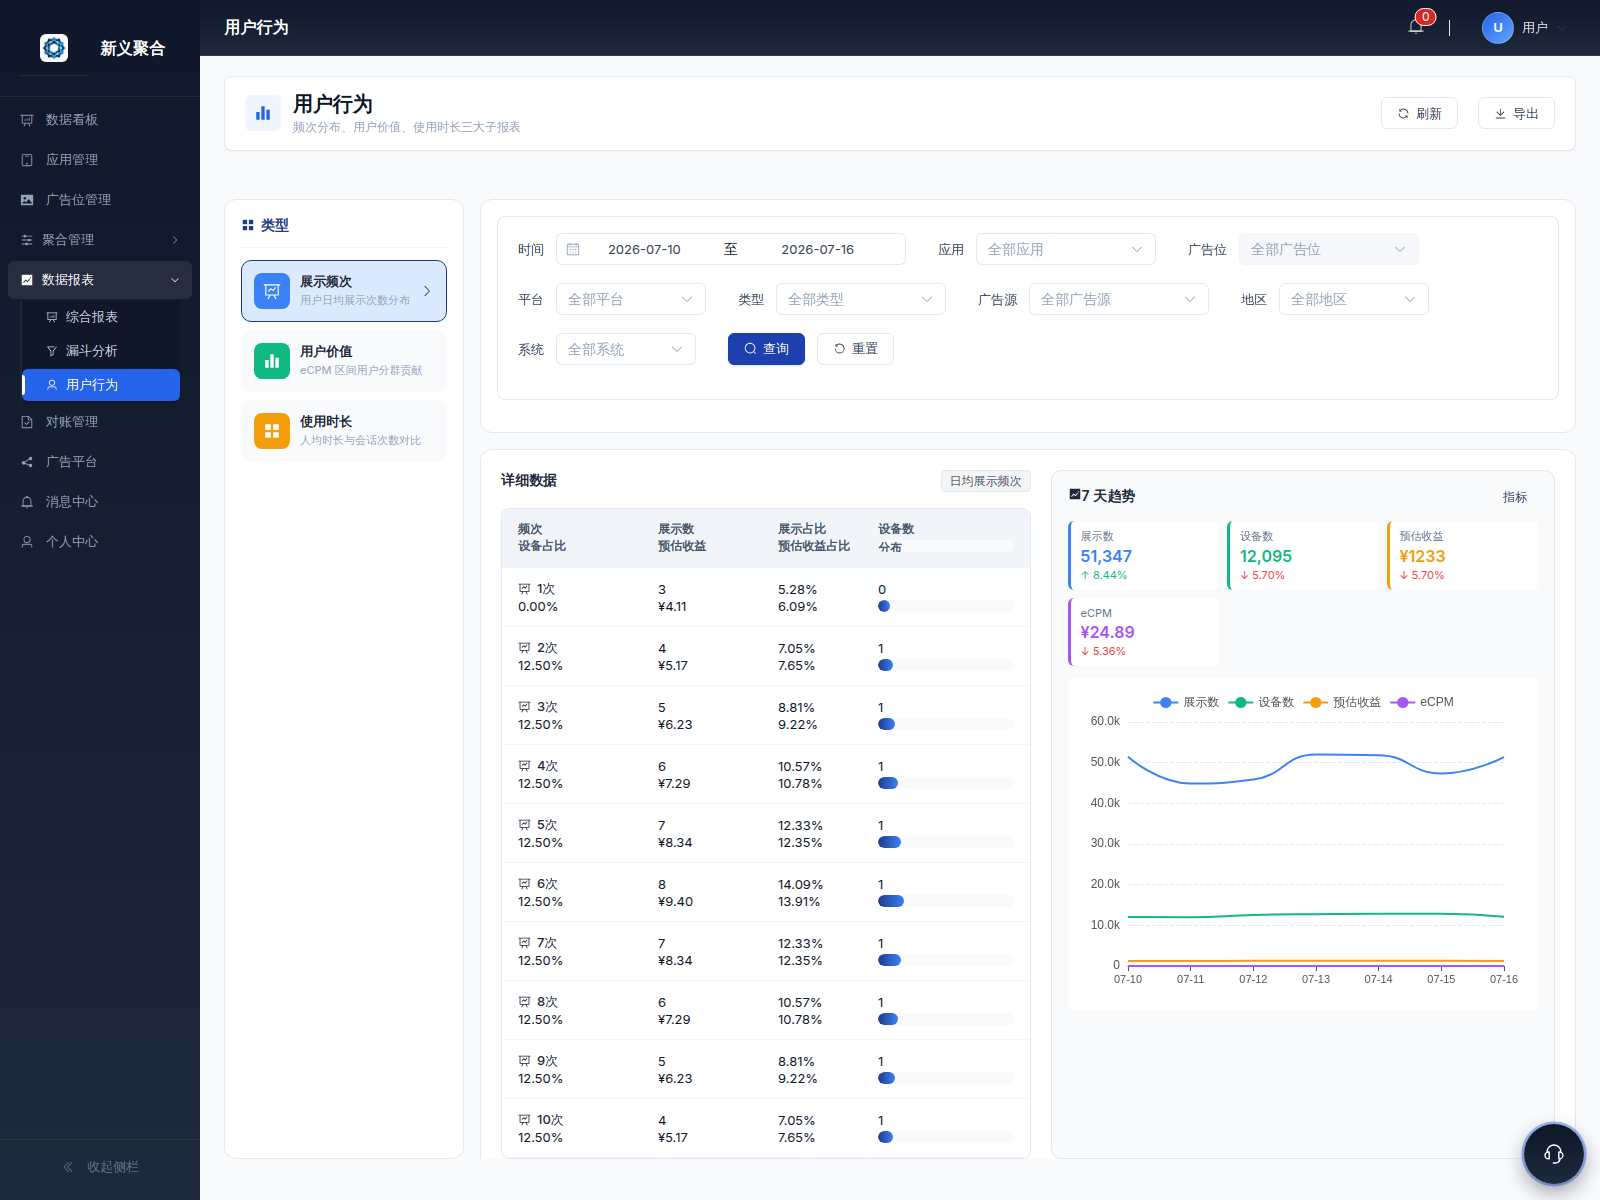
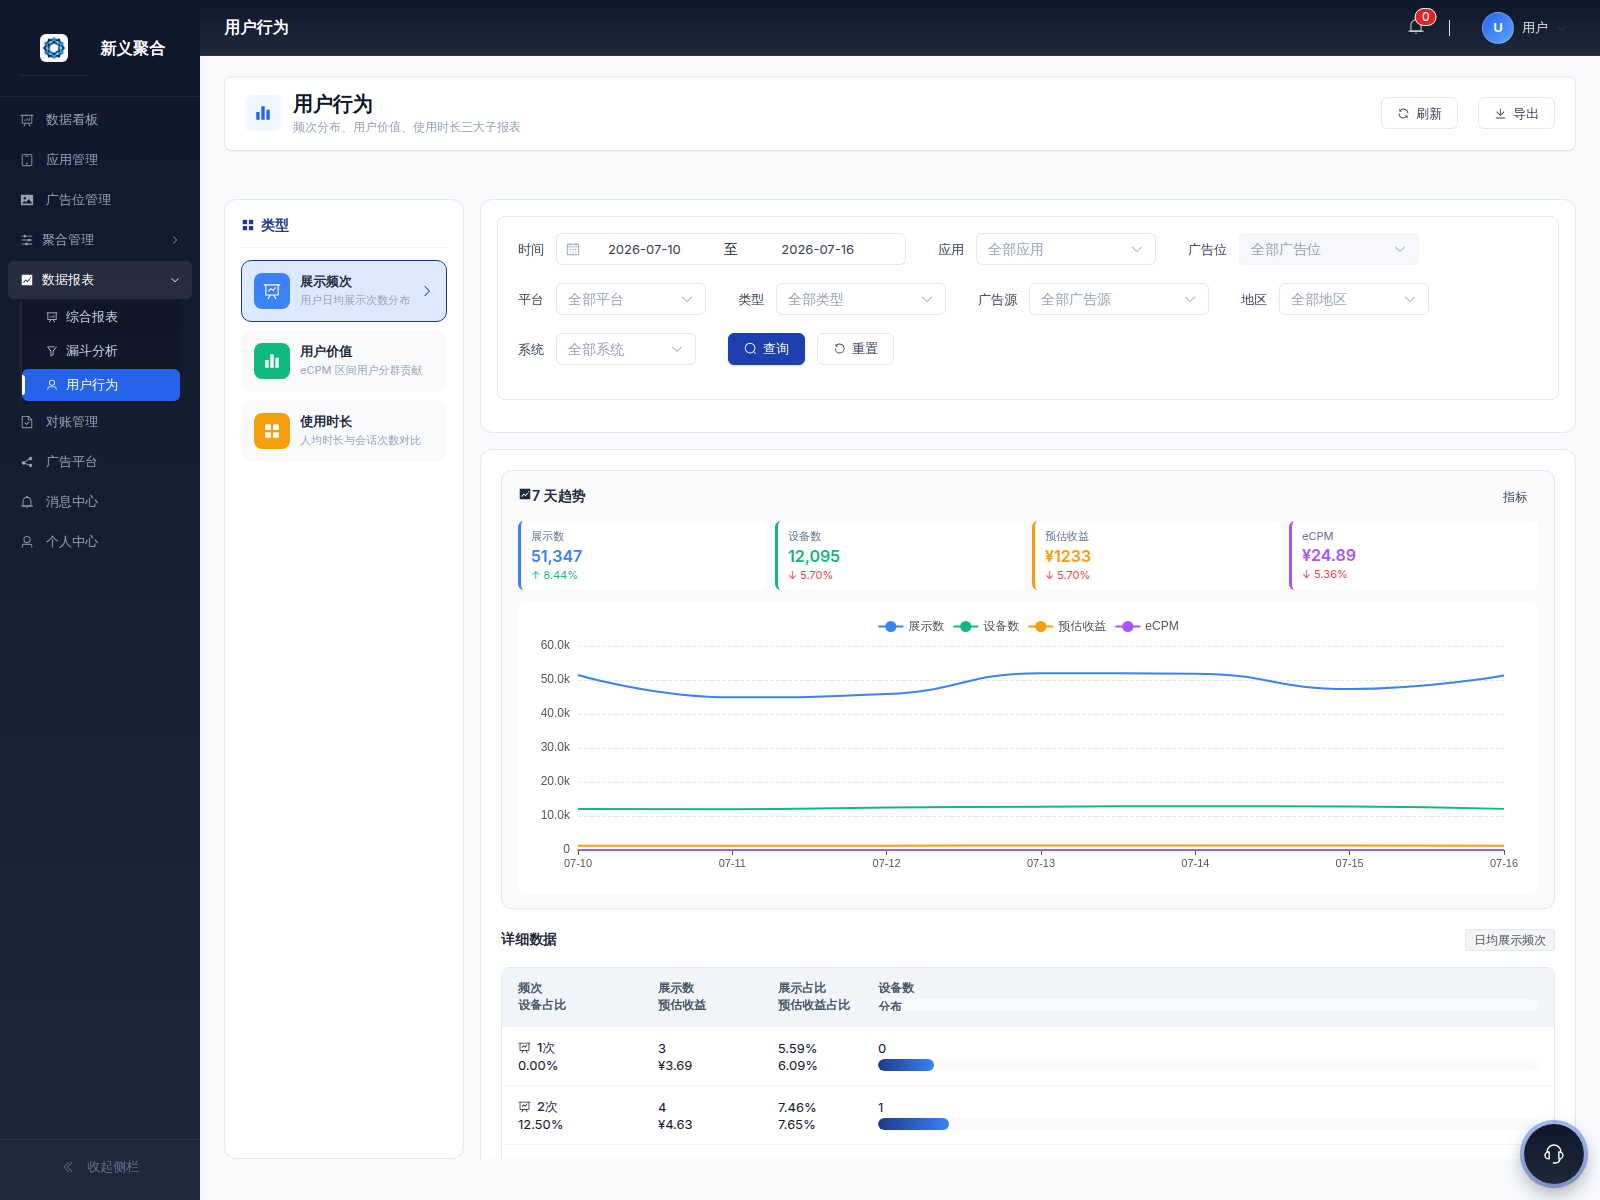
feat: 保存文件变更
Coze-Commit-Type: user
Coze-User-ID: 3335283175079384
Coze-Conversation-ID: 9828427

diff --git a/src/views/report/Behavior.vue b/src/views/report/Behavior.vue
@@ -59,7 +59,53 @@
         <!-- Tab 1: 展示频次（10 个频次档） -->
         <div v-if="currentSubtype === 'frequency'" class="behavior-card" v-loading="loading">
           <div class="behavior-freq-layout">
-            <!-- 左：频次分布表 -->
+            <!-- 上：7 天趋势图 -->
+            <div class="behavior-freq-trend-pane">
+              <div class="behavior-card-header">
+                <h3 class="behavior-card-title">
+                  <el-icon><TrendCharts /></el-icon>
+                  <span>7 天趋势</span>
+                </h3>
+                <div class="behavior-card-actions">
+                  <el-button text size="small" @click="trendPickerOpen = true">指标</el-button>
+                </div>
+              </div>
+
+              <div class="freq-trend-kpi">
+                <div v-for="k in freqTrendKpi" :key="k.code" class="freq-trend-kpi-item" :style="{ borderLeftColor: k.color }">
+                  <span class="freq-trend-kpi-name">{{ k.name }}</span>
+                  <span class="freq-trend-kpi-value" :style="{ color: k.color }">{{ k.value }}</span>
+                  <span class="freq-trend-kpi-delta" :class="k.delta >= 0 ? 'tone-up' : 'tone-down'">
+                    {{ k.delta >= 0 ? '↑' : '↓' }}&nbsp;{{ Math.abs(k.delta).toFixed(2) }}%
+                  </span>
+                </div>
+              </div>
+
+              <div class="freq-trend-chart">
+                <v-chart v-if="freqTrendDates.length > 0" :option="freqTrendChartOption" autoresize style="height: 280px" />
+                <div v-else class="frequency-empty">暂无数据</div>
+              </div>
+
+              <el-dialog
+                v-model="trendPickerOpen"
+                title="选择趋势指标"
+                width="520px"
+                :close-on-click-modal="false"
+                append-to-body
+              >
+                <el-checkbox-group v-model="freqTrendPicked" class="freq-trend-picker">
+                  <el-checkbox v-for="m in FREQ_TREND_METRICS" :key="m.code" :label="m.code">
+                    <span class="freq-trend-picker-chip" :style="{ background: m.color + '20', color: m.color, borderColor: m.color + '50' }">{{ m.name }}</span>
+                  </el-checkbox>
+                </el-checkbox-group>
+                <template #footer>
+                  <el-button @click="trendPickerOpen = false">取消</el-button>
+                  <el-button type="primary" @click="trendPickerOpen = false">确定</el-button>
+                </template>
+              </el-dialog>
+            </div>
+
+            <!-- 下：频次分布表 -->
             <div class="behavior-freq-table-pane">
               <div class="behavior-card-header">
                 <h3 class="behavior-card-title">详细数据</h3>
@@ -98,52 +144,6 @@
                   </div>
                 </div>
               </div>
-            </div>
-
-            <!-- 右：7 天趋势图 -->
-            <div class="behavior-freq-trend-pane">
-              <div class="behavior-card-header">
-                <h3 class="behavior-card-title">
-                  <el-icon><TrendCharts /></el-icon>
-                  <span>7 天趋势</span>
-                </h3>
-                <div class="behavior-card-actions">
-                  <el-button text size="small" @click="trendPickerOpen = true">指标</el-button>
-                </div>
-              </div>
-
-              <div class="freq-trend-kpi">
-                <div v-for="k in freqTrendKpi" :key="k.code" class="freq-trend-kpi-item" :style="{ borderLeftColor: k.color }">
-                  <span class="freq-trend-kpi-name">{{ k.name }}</span>
-                  <span class="freq-trend-kpi-value" :style="{ color: k.color }">{{ k.value }}</span>
-                  <span class="freq-trend-kpi-delta" :class="k.delta >= 0 ? 'tone-up' : 'tone-down'">
-                    {{ k.delta >= 0 ? '↑' : '↓' }}&nbsp;{{ Math.abs(k.delta).toFixed(2) }}%
-                  </span>
-                </div>
-              </div>
-
-              <div class="freq-trend-chart">
-                <v-chart v-if="freqTrendDates.length > 0" :option="freqTrendChartOption" autoresize style="height: 320px" />
-                <div v-else class="frequency-empty">暂无数据</div>
-              </div>
-
-              <el-dialog
-                v-model="trendPickerOpen"
-                title="选择趋势指标"
-                width="520px"
-                :close-on-click-modal="false"
-                append-to-body
-              >
-                <el-checkbox-group v-model="freqTrendPicked" class="freq-trend-picker">
-                  <el-checkbox v-for="m in FREQ_TREND_METRICS" :key="m.code" :label="m.code">
-                    <span class="freq-trend-picker-chip" :style="{ background: m.color + '20', color: m.color, borderColor: m.color + '50' }">{{ m.name }}</span>
-                  </el-checkbox>
-                </el-checkbox-group>
-                <template #footer>
-                  <el-button @click="trendPickerOpen = false">取消</el-button>
-                  <el-button type="primary" @click="trendPickerOpen = false">确定</el-button>
-                </template>
-              </el-dialog>
             </div>
           </div>
         </div>

diff --git a/src/index.css b/src/index.css
@@ -9448,8 +9448,8 @@ html, body, #app {
 
 /* 频次分布 */
 .behavior-freq-layout {
-  display: grid;
-  grid-template-columns: minmax(0, 1.05fr) minmax(0, 1fr);
+  display: flex;
+  flex-direction: column;
   gap: 20px;
 }
 .behavior-freq-table-pane { min-width: 0; }
